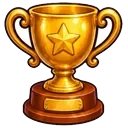
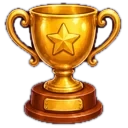
Champion trophy gaps removed (W7.1); POSSE_CHAT_PLAN.md (W4.3 step 1); tracker updated

Changed region(s): [[0.0312, 0.0, 0.9688, 1.0]]

diff --git a/POSSE_CHAT_PLAN.md b/POSSE_CHAT_PLAN.md
@@ -1,0 +1,61 @@
+# Posse ("The Old Gang") and Chat plan (2026-10-27, GP app / account B) - tracker item W4.3 step 1
+Status: PLAN ONLY, nothing built. Owner priority: implement, not just remember. Build order is at the bottom. Everything below plugs into code that already exists (checked 2026-10-27).
+
+## 1. What already exists that we reuse
+- **Factions:** `player_profiles.faction` (migration 008, three factions, 30-day switch lock, `faction_changed_at`). A Posse is locked to ONE faction, so membership checks read this column.
+- **Friends:** `api/friends.ts` (friend codes, requests, `PROFILE_FIELDS`), friend request rows delivered to the Mailbox.
+- **Mailbox:** `mail_inbox` with a `kind` check constraint that each migration widens (027 is the current list: friend_battle, arena_knockout, arena_dues, raid_result, resident_exchange_host, court_displaced, board_reward, friend_request). Posse and chat add kinds the same way.
+- **Weekly boards:** `api/boards.ts` + lazy idempotent weekly settlement (`board_settlements`) is the pattern for Posse weekly points and rewards.
+- **Account deletion:** `api/account/delete.ts` keeps a `DELETE_TABLES` list (court_ladder, court_attempts, court_honors, board_scores, memento_events). Every new per-player table below must be added there.
+- **Every `api/*.ts` route is self-contained edge runtime** (no shared helper files), so the word filter below is duplicated inside `api/posse.ts` and `api/chat.ts`.
+- There is NO name/word filter anywhere today (display names included). That is a gap to close before Posse names or any chat ships.
+
+## 2. Posse rules (from the owner, 2026-10-20 and 10-27)
+- A player creates a Posse and picks one faction; every member must be in that faction. Leaving the faction (30-day lock applies) means leaving the Posse. Size 20 at first. Roles: Owner, up to 2 Co-leads, Members.
+- Join by friend code or request; no public free-text recruiting post at launch.
+- Name 3-20 characters and a 2-4 letter tag, both through the word filter; banner chosen from preset emblems (no custom images, no free-text bio).
+- All Posse rewards are Tickets / Materials / TV Dinners / XP / cosmetics. **Never PP/Pension Fund, never passive income.**
+
+## 3. Data model (migrations 031 and 032, numbers are free: 031 was NOT used)
+031 `posses`: id uuid pk, name text unique (case-insensitive), tag text, faction text (same check as profiles), emblem text, owner_id uuid, created_at, member_count int default 1, deleted_at null.
+031 `posse_members`: posse_id, user_id (unique: a player is in at most one Posse), role text check (owner|co|member), joined_at, week_points int default 0.
+031 `posse_invites`: id, posse_id, to_user_id, from_user_id, created_at, expires_at, status (pending|accepted|declined|cancelled); unique (posse_id, to_user_id) while pending.
+031 `posse_week_points`: posse_id, week_start date, points int, settled bool default false; pk (posse_id, week_start).
+031 `posse_daily`: user_id, day, points_added int (per-member daily cap so alt accounts cannot farm).
+031 widens `mail_inbox.kind` with `posse_invite`, `posse_reward`, `quick_chat`.
+032 `chat_blocks`: blocker_id, blocked_id, created_at, pk both; `chat_reports`: id, reporter_id, reported_id, kind, message_text, created_at, handled bool.
+RLS on, no direct browser access; everything through `api/posse.ts` and `api/chat.ts` with the service role (same pattern as `mail_inbox`).
+**Delete list:** add `posse_members`, `posse_invites`, `posse_daily`, `chat_blocks`, `chat_reports` to `DELETE_TABLES`; on account deletion an Owner promotes the first Co-lead, else the oldest member, else the Posse is soft-deleted.
+
+## 4. API (`api/posse.ts`, edge, one POST with an `action`, GET for info)
+`create` (checks faction, name filter, not already in a Posse, daily create limit) / `info` (own Posse: roster with level, power, title, week points) / `invite` (friend code) / `respond` (accept or decline) / `leave` / `kick` / `promote` / `demote` / `transfer_owner` / `settle` (lazy, called on any read after the week ends, idempotent) / `search_by_tag` (exact tag only, no browse list at launch).
+Server rules: every check reads server values (profile faction, existing membership); one action per request; rate limits per user; messages go to the Mailbox so offline members see them.
+
+## 5. What a Posse does (weekly, server-counted)
+- **Posse Points:** each member action already counted server-side adds points to their `week_points`: Arena win +2, Raid hit +3, Friend/Court battle win +1, Resident Exchange hosted +1. Per-member cap 40/day. Totals roll into `posse_week_points`.
+- **Weekly Posse Goal:** a shared target scaled to member count (for example 10 points per member); reaching it pays EVERY member a capped Mailbox reward (Tickets + Materials + TV Dinners), paid once per week by the lazy settlement.
+- **Leaderboards:** top Posses per faction and overall, weekly, using the same bracket-free total (small Posses are not punished: board shows points per member too). Top 3 per faction get a cosmetic Posse title for the week.
+- **Faction war (later):** sum of Posse Points per faction each week, winning faction gets a banner on the map for the next week. Not in the first release.
+- **Optional later perk:** a small Arena dues bonus for stationed Posse members (needs the owner's call, touches the Arena economy).
+
+## 6. Chat in three phases (Google Play user-generated-content rules drive the order)
+Play requires, for any player-to-player text: a content filter, in-app report and block, and ongoing moderation; it also raises the content rating and adds "Messages" to Data Safety and the privacy policy. The audience includes 13+ minors.
+- **Phase A: Quick Chat (ship with the Posse).** A fixed list of friendly phrases and stickers sent through the Mailbox to a friend or the whole Posse. No free text, no moderation burden. Starting list (24): Nice game! / Good luck! / Rematch? / Great battle! / Thanks for visiting! / Come visit my park! / Join my raid! / Anyone up for an Arena? / I need a hand with the boss / Congrats! / Welcome to the Posse! / Good morning! / Good night! / Bingo! / Hang in there! / Well played! / See you tomorrow! / Thanks for the gift! / Happy holidays! / Let's go Posse! / Sorry, my bad / Nice park! / Need help leveling / Good to see you! Plus 8 sticker art pieces (needs art from GP app 2). Limits: 20 sends/day, 1 per recipient per minute, mute/block works on it too.
+- **Phase B: filtered friends-and-Posse text (after launch, only if wanted).** Asynchronous messages through the Mailbox (no real-time), friends and Posse only, 120 characters, server-side filter (list + leetspeak/spacing normalization, slurs, links, emails and phone numbers blocked), Report (copies the message and context into `chat_reports`), Block/Mute per player, a remote kill switch (an env flag that turns text off without a release), privacy policy + Data Safety + content rating updates, and a way for the owner to review reports (a read-only admin page or a Supabase view). 3-4 sessions plus ongoing moderation time.
+- **Never:** rooms, global chat, DMs to strangers, image or voice sharing.
+
+## 7. Safety and policy checklist (before either chat phase ships)
+Word filter for Posse and display names (new, shared logic duplicated in each route); Report and Block in the UI; kill switch; privacy policy and Play Data Safety updated for Posse membership, Quick Chat and (Phase B) message content; content rating questionnaire re-answered; age gate stays 13+; account deletion removes membership and chat data; Terms mention that messages may be reviewed. **Not legal advice; confirm with the Play policy text at submission time.**
+
+## 8. UI screens
+Posse tab (inside Social Profile or a button on the Friends screen): create flow (name, tag, emblem, faction shown read-only), roster with role badges and power, invite by friend code, weekly goal progress bar, leaderboard, leave/kick/promote sheets, Quick Chat picker (also on each friend row and Posse screen), Mailbox renderers for `posse_invite` (Accept/Decline), `posse_reward`, `quick_chat`.
+**Art needed from GP app 2 (W7.7):** 6-9 Posse emblems, Posse header, 8 Quick Chat stickers.
+
+## 9. Build order (one small pushed increment each; tests as in the tracker rules)
+1. Shared word filter + apply it to display names (small, useful immediately). Pure-function tests.
+2. Migration 031 + `api/posse.ts` create/info/invite/respond/leave with a fake-Supabase test (the 12-scenario pattern), add tables to `delete.ts`.
+3. Posse screen UI (create, roster, invite, leave) + Mailbox `posse_invite` renderer.
+4. Posse Points counting in `arena.ts` / `mail.ts` / `court.ts` (server-side hooks, daily cap) + weekly goal settlement + rewards via Mailbox + `ECONOMY.md` entry.
+5. Quick Chat (Mailbox kind `quick_chat`, picker UI, stickers once art arrives), then Posse leaderboard.
+6. Phase B text chat only after launch and only if still wanted.
+Open questions are in the tracker (Q8 split is answered: GP app owns Posse and chat; GP app 2 supplies emblems/stickers).

diff --git a/GERIATRIC_PARK_STATUS_2026-10-26.md b/GERIATRIC_PARK_STATUS_2026-10-26.md
@@ -61,7 +61,7 @@ Sub-steps (status of each: `PLAN` until the owner answers the open questions):
 ## W4 Social features the owner does NOT want forgotten (NOT STARTED, plan details in the 10-20 doc sections 2.3 and 2.4)
 - W4.1 **"The Old Gang" / Posse:** player-made groups, every member in the SAME faction (leaving the faction means leaving the Posse; 30-day faction lock applies), size 20, roles Owner / up to 2 Co-leads / Members, invite by friend code, name through the word filter, preset banner art (6-9 emblems + header, art needed). Weekly Posse Points counted SERVER-side from members' Arena/Raid/PvP participation, weekly shared Posse Goal paying capped Tickets/Materials/TV Dinners/XP/cosmetics through the Mailbox (never PP or passive income), leaderboards per faction and overall, faction-vs-faction weekly standings, per-member daily caps. Data/API: migration 031+ `posses`, `posse_members`, `posse_invites`, `posse_week_points`; `api/posse.ts`; Mailbox kinds `posse_invite` / `posse_reward`; Tutorial card; `ECONOMY.md` section; add tables to `api/account/delete.ts`. About 4-6 sessions. Status: PLAN (schedule after the S2 faucets or in parallel on the other account, Q8).
 - W4.2 **Friend and Posse chat:** Phase A "Quick Chat" = fixed list of about 20 friendly phrases and stickers sent through the Mailbox, works for friends AND Posse, no free text, no moderation burden (about half a session, can ship at launch). Phase B (after launch, only if wanted) = asynchronous filtered text for friends and Posse only: server-side word filter with normalization, links/contact info blocked, rate limits, Report and Block/Mute, remote kill switch, privacy policy + Data Safety + content rating updates, an admin way to review reports, about 3-4 sessions plus ongoing moderation. Reason for phasing: Google Play's user-generated-content policy requires filtering, in-app report/block and moderation, raises the content rating, and the audience includes 13+ minors. Never build rooms or global chat. Status: PLAN (Quick Chat first, Q8).
-- W4.3 **Owner priority (2026-10-27): Posse and friend/Posse chat must be planned AND implemented, not just remembered.** Step 1 (B): write `POSSE_CHAT_PLAN.md` (data model, API routes, migration numbers, UI screens, art list, safety/Play policy checklist, build order with sessions). Step 2 (B): migration + `api/posse.ts`. Step 3: Posse screen UI. Step 4: Quick Chat for friends and Posse (fixed phrases/stickers through the Mailbox). Step 5: filtered text chat only if still wanted after launch. Status: TODO (B, schedule right after the S2 Memento faucets; A supplies Posse emblem art and chat sticker art from W7).
+- W4.3 **Owner priority (2026-10-27): Posse and friend/Posse chat must be planned AND implemented, not just remembered.** Step 1 (B): DONE 2026-10-27, `POSSE_CHAT_PLAN.md` written (data model migrations 031/032, API actions, weekly Posse Points and goal, three chat phases, safety checklist, UI screens, build order). Step 2 (B): migration + `api/posse.ts`. Step 3: Posse screen UI. Step 4: Quick Chat for friends and Posse (fixed phrases/stickers through the Mailbox). Step 5: filtered text chat only if still wanted after launch. Status: PLAN WRITTEN, build step 1 (shared word filter) is next (B; schedule right after the S2 Memento faucets; A supplies Posse emblem art and chat sticker art from W7).
 
 
 ## W5 Launch track (unchanged, critical path)
@@ -71,7 +71,7 @@ Signed release build (keystore + 4 GitHub secrets + release workflow; owner does
 Lodge/Workshop own-Elder training (10-20 doc 2.2); building-function review with taper bonus = max x (1 - 0.92^level); results card for Arena/Raid/Court; Challenge mode tab icon still the canes (swap to the debate icon?); painted rarity glows on some gear art (strip?); roster cap rework to 100 total (2.8); producer repurpose toward Raids/Arenas (2.10); Tutorial cards for new features; Activity Log per-type icons and knockout logging; optional art re-rolls (weekly calendar letters, Bingo charm "0"); extend Tower/Raid for endgame (10-20 doc 2.1 follow-ups).
 
 ## W7 Cosmetics, art and game assets (DELEGATED to GP app 2 / account A by the owner, 2026-10-27; B keeps prices, yield and economy numbers)
-- W7.1 **Art fix:** the Elder Pass "Autumn Gathering" (season 1) Champion trophy still has white between the handles and the cup (Pass lane icon art, `PASS_LANE_ART` Champion / Golden Champion): clean the enclosed pockets and verify on dark. Status: TODO (A).
+- W7.1 **Art fix:** the Elder Pass "Autumn Gathering" (season 1) Champion trophy still has white between the handles and the cup (Pass lane icon art, `PASS_LANE_ART` Champion / Golden Champion): clean the enclosed pockets and verify on dark. Status: DONE (account B, `game-assets/passes/pass_champion.webp`, enclosed white between handles and cup removed; verify on a phone).
 - W7.2 **Items:** more and better items for shops, drops and found items (regular, event and seasonal), in the current art style; keep names stable; review remaining shop/PvP gear art for painted glows that fight the code rarity glow. Status: TODO (A).
 - W7.3 **Keepsake art and content (visuals only, NOT the $ part):** new Keepsakes with rarity looks (Common/Rare/Epic/Legendary frames or glows), more event keepsakes as events are added, display art for the Collection screen. Prices, yield and Memento flows stay with B. Status: TODO (A).
 - W7.4 **Antiques art and content:** new Antiques (more per rarity, event antiques), Collection pages and Display Case art for W3.B, and the unowned/locked looks. Status: TODO (A).
@@ -128,3 +128,4 @@ Done and wired: see v7/v6 (all N/A sheets, buildings, structures, debate icon, f
 - 2026-10-22..25 account A (this chat): F6 rearrange, results card, activity log, map limit, building/structure/debate/feat art, event Elders + keepsake display (`7c31081`); economy plan (`6dccd7f`); this tracker (v8, local until pushed).
 - 2026-10-25 account B (other): art touch-ups (prune bar, lane oil, rocking chair) and Atlas badge research, NOT pushed, sandbox paused until 2026-10-26 04:30. Nothing else claimed.
 - 2026-10-27/28 account A (GP app 2): W0.2/W1.2 event card rewards (`76ebf17`); merged the owner's 10-27 request batch into this tracker (W1.3 ads, W2.3 full sort, W2.6-W2.9, W3.A, W3.B, W4.3, W7, Q14-Q17) and the confirmed account split.
+- 2026-10-27 account B (GP app): Autumn Gathering Champion trophy white gaps removed (W7.1), `POSSE_CHAT_PLAN.md` written (W4.3 step 1).
